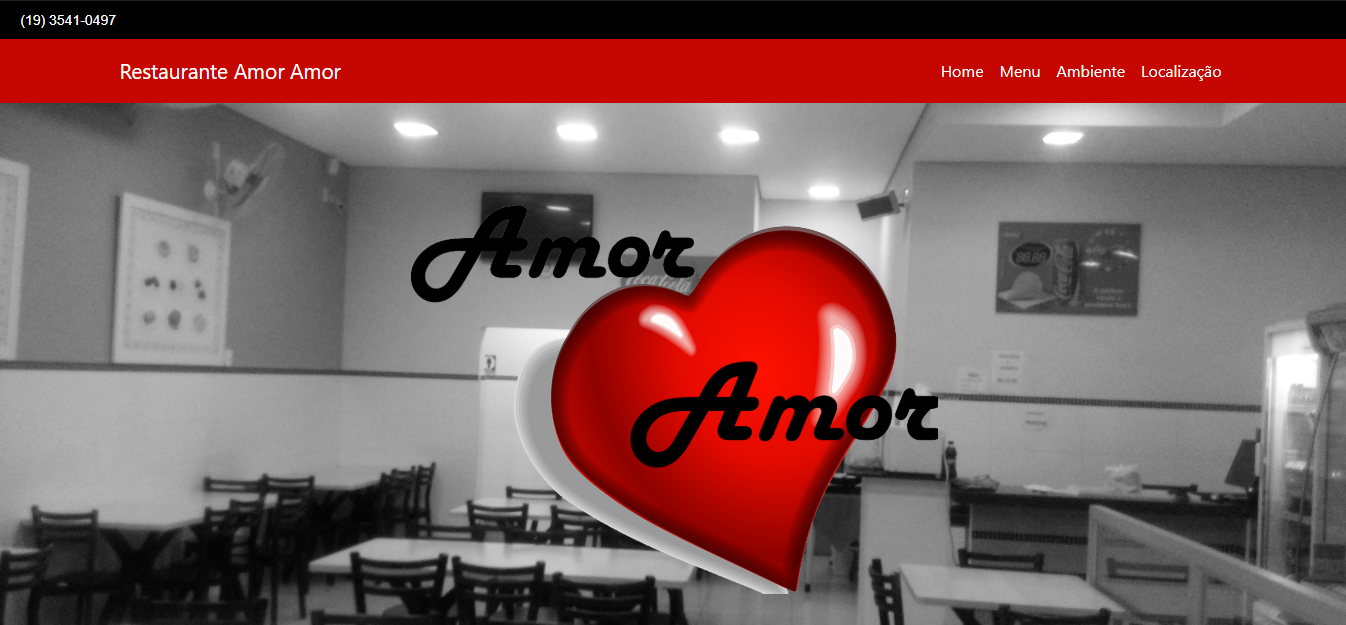
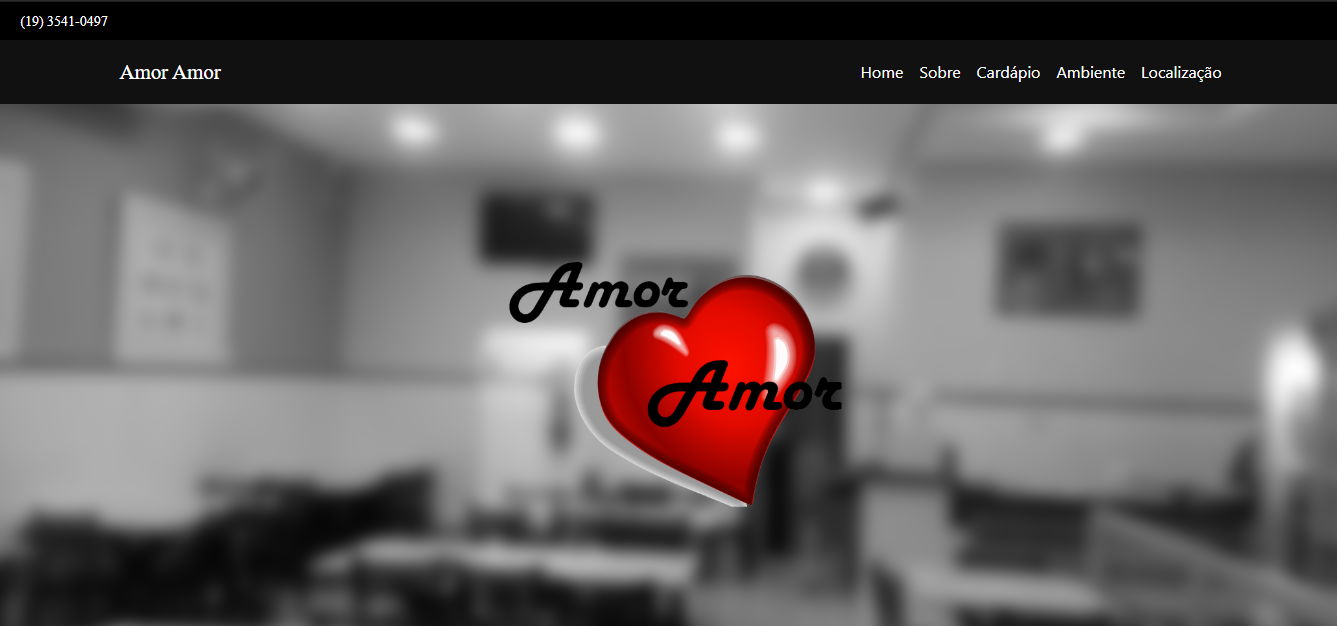
Adição de imagens na Galeria da pagina Amor Amor

diff --git a/pages/amor-amor-one-page.html b/pages/amor-amor-one-page.html
@@ -87,16 +87,15 @@
             </div>
             <p>Atualmente estar presente na internet é de extrema importância para qualquer empresa, independente do seu
                 porte, suas atividades e seu tempo de existência, pois com isso é possível divulgar sua marca, seus
-                produtos e principalmente conquistar novos clientes.
-                Quando uma empresa tem presença na internet por meio de um site, uma página ou mesmo um blog ela é capaz
+                produtos e principalmente conquistar novos clientes.</p>
+            <p>Quando uma empresa tem presença na internet por meio de um site, uma página ou mesmo um blog ela é capaz
                 de propagar e divulgar sua marca e seus produtos para um número maior de pessoas e, por consequência, de
-                possíveis novos clientes.
-                Um site bem desenvolvido tem o poder de ser uma forma de cartão de visita de quaisquer estabelecimentos,
-                onde os clientes recorrem para encontrar as informações mais importantes da empresa.
-                Esse projeto propõem a ampliação da comunicação do restaurante Amor Amor localizado na cidade de
+                possíveis novos clientes.</p>
+            <p>Um site bem desenvolvido tem o poder de ser uma forma de cartão de visita de quaisquer estabelecimentos,
+                onde os clientes recorrem para encontrar as informações mais importantes da empresa.</p>
+            <p>Esse projeto propõem a ampliação da comunicação do restaurante Amor Amor localizado na cidade de
                 Araras-SP através de um site institucional e descrever como foram realizadas as etapas fundamentais para
-                o melhor desenvolvimento do projeto.
-            </p>
+                o melhor desenvolvimento do projeto.</p>
         </div>
     </section>
 
@@ -106,8 +105,8 @@
                 <span>Revisão bibliográfica e problematização</span>
             </div>
             <p>O desenvolvimento desse projeto iniciou durante as aulas Padrões de Projeto de Sítios Internet II
-                ministradas pelo Dr. Paulo César de Macedo onde ele pediu aos alunos para desenvolver um site para uma
-                empresa real que ainda não possuía presença online a fim de além de codificar as páginas ter a
+                ministradas pelo professor Dr. Paulo César de Macedo onde ele pediu aos alunos para desenvolver um site
+                para uma empresa real que ainda não possuía presença online a fim de além de codificar as páginas ter a
                 oportunidade de realizar um briefing com clientes.</p>
         </div>
     </section>
@@ -118,6 +117,17 @@
                 <span>Métodos e ferramentas</span>
             </div>
             <p>O desenvolvimento desse site foi realizado por meio das seguintes etapas:</p>
+
+            <div class="row">
+                <div class="col-12">
+                    <ul>
+                        <li>Realização de um briefing com o responsável pelo restaurante;</li>
+                        <li>Desenvolvimento do wireframe para validar as informações coletadas durante o wireframe e
+                            escolher o melhor formato para o site a ser criado;</li>
+                        <li>Codificação do site.</li>
+                    </ul>
+                </div>
+            </div>
 
             <p>Foi realizado um briefing com o responsável pelo restaurante Amor Amor a fim de coletar informações
                 relevantes sobre a empresa, como o mercado em que ela atua, seu público alvo e por consequência conhecer
@@ -139,7 +149,6 @@
                             <div class="transparent-box">
                                 <div class="caption">
                                     <p>BRIEFING</p>
-                                    <!-- <p class="opacity-low">Ander Guedes</p> -->
                                 </div>
                             </div>
                         </div>
@@ -160,7 +169,6 @@
                             <div class="transparent-box">
                                 <div class="caption">
                                     <p>WIREFRAME</p>
-                                    <!-- <p class="opacity-low">Ander Guedes</p> -->
                                 </div>
                             </div>
                         </div>
@@ -170,18 +178,15 @@
                     <div class="gallery-image">
                         <div class="callout callout-dark">
                             <span class="callout__text">Wireframe é um protótipo ou versão primitiva de um projeto, ele
-                                é desenhado por meio
-                                de
-                                formas geométricas e linhas de maneira muito simples para representar o como o projeto
-                                foi
-                                estudado, é feito por meio de desenhos em papel.</span>
+                                é desenhado por meio de formas geométricas e linhas de maneira muito simples para
+                                representar o como o projeto foi estudado, é feito por meio de desenhos em papel.</span>
                         </div>
                     </div>
                 </div>
             </div>
 
             <p>Por meio dos wireframes para esse projeto foi definido que seu desenvolvimento seria realizado por meio
-                da codificação de um site em formato de uma One Page com design simples e objetivo com a utilização de
+                da codificação de um site em formato de uma OnePage com design simples e objetivo com a utilização de
                 HTML 5, CSS 3 e com componentes do Bootstrap como auxílio no design do layout da interface.</p>
 
             <div class="row">
@@ -202,7 +207,6 @@
                             <div class="transparent-box">
                                 <div class="caption">
                                     <p>ONE PAGE</p>
-                                    <!-- <p class="opacity-low">Ander Guedes</p> -->
                                 </div>
                             </div>
                         </div>
@@ -244,41 +248,12 @@
                 cidades da região. Na época ele possuía apenas uma conta no Facebook pouca utilizada para fazer a
                 divulgação do restaurante.</p>
 
-            <div class="row">
-                <div class="col">
-                    <div class="gallery-image">
-                        <div class="img-box">
-                            <img src="../assets/images/wireframes.jpg" alt="" />
-                            <div class="transparent-box">
-                                <div class="caption">
-                                    <p>FORMULÁRIO</p>
-                                    <p class="opacity-low">Ander Guedes</p>
-                                </div>
-                            </div>
-                        </div>
-                    </div>
-                </div>
-                <div class="col">
-                    <div class="gallery-image">
-                        <div class="img-box">
-                            <img src="../assets/images/wireframes.jpg" alt="" />
-                            <div class="transparent-box">
-                                <div class="caption">
-                                    <p>FORMULÁRIO</p>
-                                    <p class="opacity-low">Ander Guedes</p>
-                                </div>
-                            </div>
-                        </div>
-                    </div>
-                </div>
-            </div>
-
             <p>Para o melhor desenvolvimento do site foram realizadas várias versões de wireframes para encontrar qual
                 melhor formato se enquadraria no design, cores e nas ideias já existentes no restaurante. Como esse site
                 precisa passar credibilidade ao cliente, disponibilizar as informações importantes da empresa como
                 endereço, horário de funcionamento e como entrar em contato, foi escolhido um design simples e objetivo
-                com as cores da marca (vermelho e preto) e imagens reais do restaurante reunidos no formato de One Page.
-            </p>
+                utilizando uma paleta de cores com tons escuros com detalhes vermelhos e imagens reais do restaurante
+                reunidos no formato de One Page.</p>
 
             <div class="row">
                 <div class="col">
@@ -287,7 +262,7 @@
                             <img src="../assets/images/wireframes.jpg" alt="" />
                             <div class="transparent-box">
                                 <div class="caption">
-                                    <p>FORMULÁRIO</p>
+                                    <p>WIREFRAME</p>
                                     <p class="opacity-low">Ander Guedes</p>
                                 </div>
                             </div>
@@ -300,7 +275,7 @@
                             <img src="../assets/images/wireframes.jpg" alt="" />
                             <div class="transparent-box">
                                 <div class="caption">
-                                    <p>FORMULÁRIO</p>
+                                    <p>WIREFRAME</p>
                                     <p class="opacity-low">Ander Guedes</p>
                                 </div>
                             </div>
@@ -321,7 +296,7 @@
                             <img src="../assets/images/wireframes.jpg" alt="" />
                             <div class="transparent-box">
                                 <div class="caption">
-                                    <p>FORMULÁRIO</p>
+                                    <p>ONE PAGE</p>
                                     <p class="opacity-low">Ander Guedes</p>
                                 </div>
                             </div>
@@ -334,7 +309,7 @@
                             <img src="../assets/images/wireframes.jpg" alt="" />
                             <div class="transparent-box">
                                 <div class="caption">
-                                    <p>FORMULÁRIO</p>
+                                    <p>ONE PAGE</p>
                                     <p class="opacity-low">Ander Guedes</p>
                                 </div>
                             </div>
@@ -353,7 +328,7 @@
                             <img src="../assets/images/wireframes.jpg" alt="" />
                             <div class="transparent-box">
                                 <div class="caption">
-                                    <p>FORMULÁRIO</p>
+                                    <p>MOBILE</p>
                                     <p class="opacity-low">Ander Guedes</p>
                                 </div>
                             </div>
@@ -366,7 +341,7 @@
                             <img src="../assets/images/wireframes.jpg" alt="" />
                             <div class="transparent-box">
                                 <div class="caption">
-                                    <p>FORMULÁRIO</p>
+                                    <p>MOBILE</p>
                                     <p class="opacity-low">Ander Guedes</p>
                                 </div>
                             </div>
@@ -374,35 +349,6 @@
                     </div>
                 </div>
             </div>
-
-            <!-- <div class="row">
-                <div class="col-4">
-                    <i class="fab fa-html5 languageIcons" data-toggle="tooltip" data-placement="right"
-                        title="Texto sobre HTML"></i>
-                </div>
-                <div class="col-4">
-                    <i class="fab fa-css3-alt languageIcons" data-toggle="tooltip" data-placement="right"
-                        title="Texto sobre CSS"></i>
-                </div>
-                <div class="col-4">
-                    <i class="fab fa-bootstrap languageIcons" data-toggle="tooltip" data-placement="right"
-                        title="Texto sobre bootstrap"></i>
-                </div>
-            </div>
-            <div class="row">
-                <div class="col-4">
-                    HTML 5
-                </div>
-                <div class="col-4">
-                    CSS 3
-                </div>
-                <div class="col-4">
-                    Bootstrap
-                </div>
-            </div> -->
-
-
-
         </div>
     </section>
 
@@ -439,34 +385,34 @@
             <div class="gallery-container">
                 <div class="tz-gallery">
                     <div class="row">
-                        <div class="col-sm-12 col-md-4">
-                            <a class="lightbox" href="../assets/images/wireframes.jpg">
-                                <img src="../assets/images/wireframes.jpg" alt="">
+                        <div class="col-sm-12 col-md-6">
+                            <a class="lightbox" href="../assets/images/amor-amor/amor-amor-header.PNG">
+                                <img src="../assets/images/amor-amor/amor-amor-header.PNG" alt="">
                             </a>
                         </div>
-                        <div class="col-sm-12 col-md-4">
-                            <a class="lightbox" href="../assets/images/wireframes.jpg">
-                                <img src="../assets/images/wireframes.jpg" alt="">
+                        <div class="col-sm-12 col-md-6">
+                            <a class="lightbox" href="../assets/images/amor-amor/amor-amor-about.PNG">
+                                <img src="../assets/images/amor-amor/amor-amor-about.PNG" alt="">
                             </a>
                         </div>
-                        <div class="col-sm-12 col-md-4">
-                            <a class="lightbox" href="../assets/images/wireframes.jpg">
-                                <img src="../assets/images/wireframes.jpg" alt="">
+                        <div class="col-sm-12 col-md-6">
+                            <a class="lightbox" href="../assets/images/amor-amor/amor-amor-menu.PNG">
+                                <img src="../assets/images/amor-amor/amor-amor-menu.PNG" alt="">
                             </a>
                         </div>
-                        <div class="col-sm-12 col-md-4">
-                            <a class="lightbox" href="../assets/images/wireframes.jpg">
-                                <img src="../assets/images/wireframes.jpg" alt="">
+                        <div class="col-sm-12 col-md-6">
+                            <a class="lightbox" href="../assets/images/amor-amor/amor-amor-environment.PNG">
+                                <img src="../assets/images/amor-amor/amor-amor-environment.PNG" alt="">
                             </a>
                         </div>
-                        <div class="col-sm-12 col-md-4">
-                            <a class="lightbox" href="../assets/images/wireframes.jpg">
-                                <img src="../assets/images/wireframes.jpg" alt="">
+                        <div class="col-sm-12 col-md-6">
+                            <a class="lightbox" href="../assets/images/amor-amor/amor-amor-address.PNG">
+                                <img src="../assets/images/amor-amor/amor-amor-address.PNG" alt="">
                             </a>
                         </div>
-                        <div class="col-sm-12 col-md-4">
-                            <a class="lightbox" href="../assets/images/wireframes.jpg">
-                                <img src="../assets/images/wireframes.jpg" alt="">
+                        <div class="col-sm-12 col-md-6">
+                            <a class="lightbox" href="../assets/images/amor-amor/amor-amor.gif">
+                                <img src="../assets/images/amor-amor/amor-amor.gif" alt="">
                             </a>
                         </div>
                     </div>
@@ -482,7 +428,7 @@
                 <span>Detalhes</span>
             </div>
             <div class="row">
-                <div class="col-6">
+                <div class="col-4">
                     <div class="row">
                         <div class="col">
                             <i class="fab fa-html5 icon-contact"></i>
@@ -492,7 +438,7 @@
                         </div>
                     </div>
                 </div>
-                <div class="col-6">
+                <div class="col-4">
                     <div class="row">
                         <div class="col">
                             <i class="fab fa-bootstrap icon-contact"></i>
@@ -502,9 +448,19 @@
                         </div>
                     </div>
                 </div>
+                <div class="col-4">
+                    <div class="row">
+                        <div class="col">
+                            <i class="fab fa-github icon-contact"></i>
+                        </div>
+                        <div class="col">
+                            <i class="fas fa-eye icon-contact"></i>
+                        </div>
+                    </div>
+                </div>
             </div>
             <div class="row">
-                <div class="col-6">
+                <div class="col-4">
                     <div class="row">
                         <div class="col">
                             <span class="text-item">HTML 5</span>
@@ -514,13 +470,23 @@
                         </div>
                     </div>
                 </div>
-                <div class="col-6">
+                <div class="col-4">
                     <div class="row">
                         <div class="col">
                             <span class="text-item">Bootstrap</span>
                         </div>
                         <div class="col">
                             <span class="text-item">Padrões de Projeto de Sítios Internet II</span>
+                        </div>
+                    </div>
+                </div>
+                <div class="col-4">
+                    <div class="row">
+                        <div class="col">
+                            <span class="text-item">Github</span>
+                        </div>
+                        <div class="col">
+                            <span class="text-item">Ver</span>
                         </div>
                     </div>
                 </div>

diff --git a/index.html b/index.html
@@ -30,7 +30,7 @@
 
 </head>
 
-<body id="page-top">
+<body id="page-top" oncontextmenu="return false" ondragstart="return false" onselectstart="return false">
 
     <!-- Navbar -->
     <nav class="navbar navbar-expand-lg navbar-dark fixed-top" id="mainNav">
